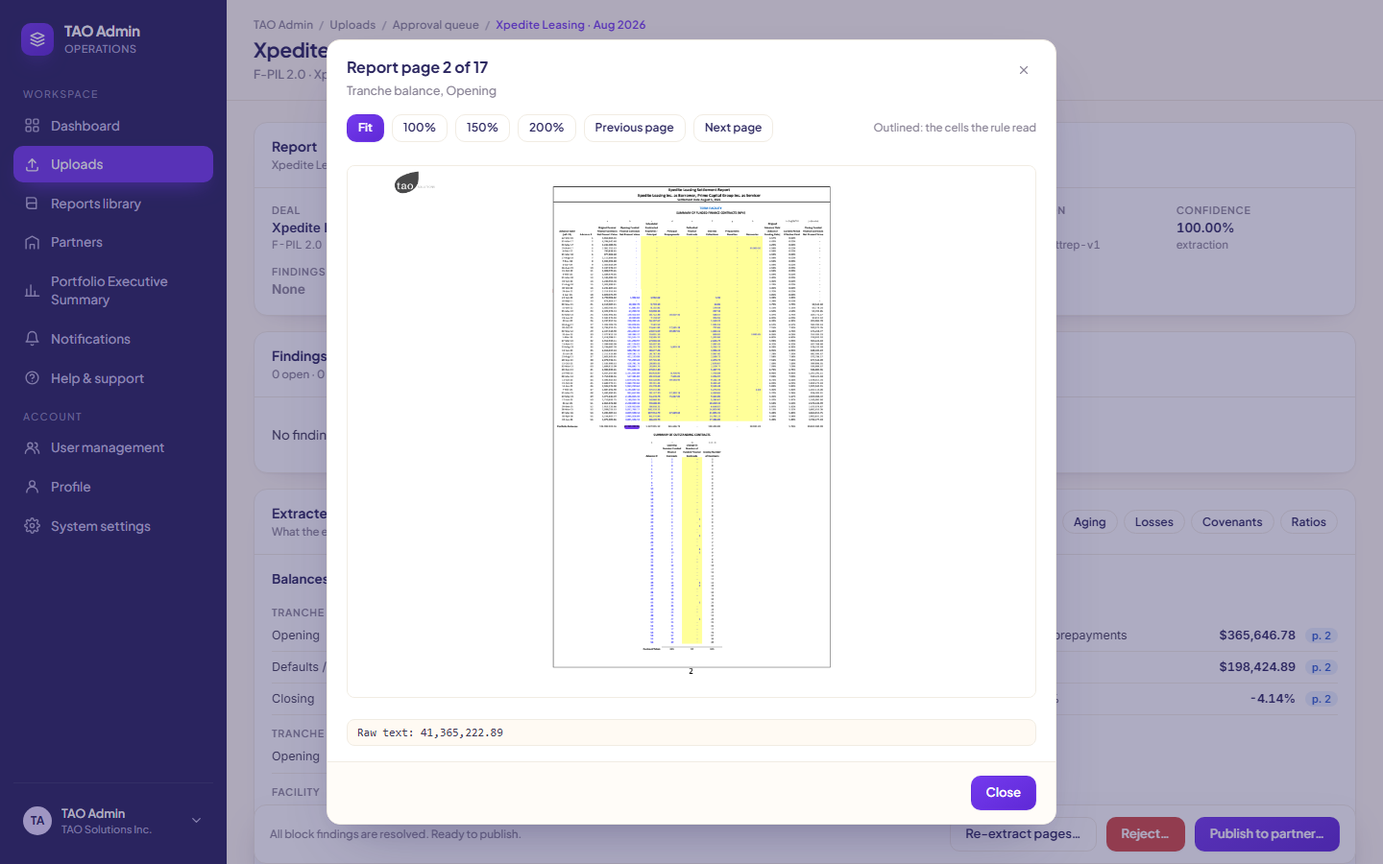
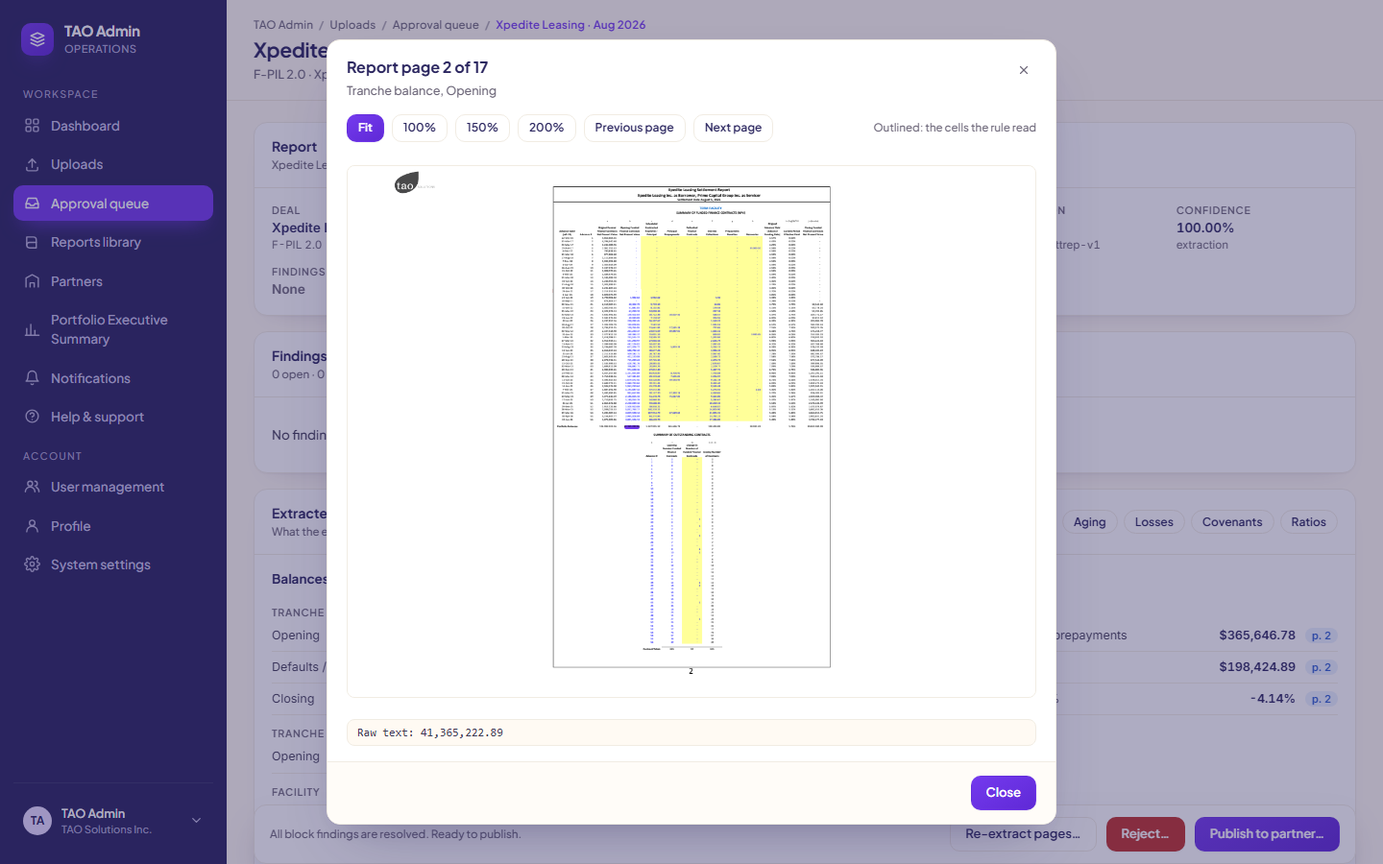
qa: docs/demo.md and screenshots for the wave-3 demo (re-issue step 7, Use ours, manager view), acceptance re-measured; requests and progress

diff --git a/docs/demo.md b/docs/demo.md
@@ -17,7 +17,7 @@ docker compose exec api python -m app.seed  # Git Bash: prefix MSYS_NO_PATHCONV=
 cd tests/e2e
 npm ci
 npx playwright install chromium
-npm run test:e2e                            # setup + the seven steps + negatives, about 8 minutes
+npm run test:e2e                            # setup + the seven steps + negatives, about 4 minutes
 npm run lighthouse                          # optional: accessibility on the four main pages, after test:e2e
 ```
 
@@ -37,14 +37,12 @@ cd tests/e2e && E2E_WEB_URL=http://localhost:15500 E2E_API_URL=http://localhost:
 
 **What the setup does.** `tests/e2e/setup/demo.setup.ts` checks the stack is up, seeded and fresh, builds the
 seeded-error PDF with the Lead's tool (`scripts/demo_data.py: seeded_moneda_aug`, one digit changed on page 2 of
-Moneda 202608), and publishes May–July for Moneda, Xpedite and Stride through the HTTP API, the way a previous
-month-end would have left the system. Xpedite's June and July reports revise earlier months (R11 restatements that
-the reference object also records); the setup accepts them as a reviewer would.
+Moneda 202608), and publishes seven months through the HTTP API, the way a previous month-end would have left the
+system: May–July for Moneda and Xpedite, July for Stride (the prior month step 6 checks). Xpedite's June and July
+reports revise earlier months (R11 restatements that the reference object also records); the setup accepts them as a
+reviewer would. `npm run report` opens the last HTML report.
 
-Other scripts: `npm run test:e2e:wave3` runs the same plus the wave-3 assertions (below); `npm run report` opens the
-last HTML report.
-
-## Journey 1 — a clean report, from upload to the investor portal
+## Journey 1 — a clean report, from upload to both partner portals
 
 ### Step 1. TAO Analyst uploads a SetRep
 
@@ -58,7 +56,7 @@ from the page header is Jul 2026, one month before the collection period (rule R
 
 ![Needs review](demo/01-upload-needs-review.png)
 
-The Approval queue lists it with its finding count ("No findings").
+The Approval queue (now in the sidebar) lists it with its finding count ("No findings").
 
 ![Approval queue](demo/01-approval-queue.png)
 
@@ -66,7 +64,7 @@ The Approval queue lists it with its finding count ("No findings").
 
 Switched to TAO Admin: Approval queue › Xpedite Leasing. No finding cards ("No findings. Every rule passed for this
 extraction."). Every extracted value carries its page link (`p. N`), or names the earlier publication it was carried
-from; 94 page links, 0 values without a source.
+from: 94 page links, 0 values without a source.
 
 ![Review report, clean](demo/02-review-clean.png)
 
@@ -74,14 +72,14 @@ A page link opens the page image at that value.
 
 ![Page viewer](demo/02-page-viewer.png)
 
-Publish to partner › Approve and publish. The status becomes Published, the Activity card and the Audit log show
+Publish to partner › Approve and publish. The status becomes Published; the Activity card and the Audit log show
 Approve and Publish by `tao_admin`.
 
 ![Publish dialog](demo/02-publish-dialog.png)
 ![Published](demo/02-published.png)
 ![Audit log](demo/02-audit-log.png)
 
-### Step 3. Investor Viewer sees the deal; the numbers match the shared dashboard
+### Step 3. Investor and Manager viewers see the deal; the numbers match the shared dashboard
 
 Switched to Investor · Viewer: Portfolio Executive Summary › F-PIL 2.0 › Open deal Xpedite Leasing.
 
@@ -94,11 +92,16 @@ published object and with `docs/dashboard-json/f-pil-2-0-xpedite-leasing.dashboa
 money difference $0.00; the tranche roll-forward matches to the cent. The deal offers four periods (2026-05 to
 2026-08).
 
-The Manager partner does not see F-PIL 2.0 today, so the same deal URL in the Manager portal shows "You don’t have
-access" and the API returns no data. Once programs are shared with both partners (wave 3), the manager sees the same
-numbers; that is asserted in `tests/e2e/wave3/`.
+Both partners share both programs, so the Manager · Viewer takes the same path in the Manager portal and sees the
+same 154 numbers, again with 0 mismatches.
 
-![Other partner, no access](demo/03-other-partner-no-access.png)
+![Manager deal page](demo/03-manager-deal-page.png)
+
+Behind it (`specs/03b-master-data.spec.ts`): both programs list investor and manager as partners, Partners is
+readable by TAO roles only (`/master/partners`, 403 for partner roles), and every covenant definition states its
+unit (fraction, ratio or currency).
+
+![Partners](demo/03b-partners.png)
 
 ## Journey 2 — a report with an error
 
@@ -119,7 +122,7 @@ finding is open. Resolve it before publishing.", and the API answers 409 `open_b
 ![Analyst read only](demo/04b-analyst-read-only.png)
 ![Publish blocked](demo/04b-publish-blocked.png)
 
-### Step 5. TAO Admin overrides with a reason and publishes
+### Step 5. TAO Admin overrides with a reason and publishes our value
 
 Use ours for R05, reason "servicer typo, confirmed by email", Save and re-run rules. The rules re-run, R05 shows
 "Used our value" with the reason, no block finding is open, Publish to partner › Approve and publish. The Audit log
@@ -129,10 +132,13 @@ shows the Override with its reason, then Approve (listing the override used) and
 ![R05 resolved](demo/05-r05-resolved.png)
 ![Audit log, override](demo/05-audit-override.png)
 
-Today the published closing stays the report's $15,019,971.52. When "Use ours" writes the chosen value into the
-published deal (wave 3), it becomes $15,020,071.52 with a `data_corrections` entry; asserted in `tests/e2e/wave3/`.
+"Use ours" changes what partners see. R05 carries `targets` (`/tranche_balance/closing` among them), the published
+Moneda 2026-08 closing is ours, $15,020,071.52, and the deal's `data_corrections` records the closing for 2026-08 as
+15,019,971.52 → 15,020,071.52 with the reason. The investor deal page prints $15,020,072.
 
-## Journey 3 — the next month and a regeneration
+![Deal page with our value](demo/05-deal-page-ours.png)
+
+## Journey 3 — the next month and a corrected re-issue
 
 ### Step 6. TAO Analyst uploads the following month
 
@@ -143,71 +149,69 @@ F-PIL 2.0 program dashboard now shows 3 deals for August 2026.
 ![Next month needs review](demo/06-next-month-needs-review.png)
 ![Program dashboard](demo/06-program-dashboard.png)
 
-Not shown: "the covenant status change raises an in-app toast". None of the three F-PIL reference objects has a
-covenant status change from July to August, and the app has no covenant-change toast (filed in `docs/requests.md`).
+(The build plan's "covenant status change raises an in-app toast" was dropped from the demo on 2026-11-03.)
 
-### Step 7. TAO Admin regenerates the dashboard
+### Step 7. TAO Admin re-issues month one, publishes it and regenerates the dashboard
 
-The script says to re-upload month one first. The API refuses a second upload for a published deal and period
-(409 `already_published`, R12: "reject or regenerate instead"), and the Upload report page says so.
+Upload report, Moneda Capital Corp. 2026-05, the May PDF again. The period is published, so the page asks "Upload
+this file as a corrected re-issue?"; Upload as corrected re-issue.
 
-![Re-upload refused](demo/07-reupload-refused.png)
+![Already published](demo/07-already-published-confirm.png)
 
-Reports library (12 published reports) › Regenerate dashboard…, program F-PIL 2.0 › Regenerate: "F-PIL 2.0: rebuilt
-from 12 published reports." The roll-up totals are unchanged (nothing changed underneath) and the Audit log records
-a manual Regenerate by `tao_admin`.
+The re-issue reaches needs review, marked "Corrected re-issue". R12 blocks with "Corrected re-issue: replaces the
+2026-05 report published …" and names the later published months (2026-06, 2026-07, 2026-08) that still carry the
+earlier May figures; the review page shows the same in a banner.
+
+![Re-issue needs review](demo/07-reissue-needs-review.png)
+![Re-issue banner](demo/07-reissue-banner.png)
+
+Accept as replacement for R12, with a reason, re-runs the rules with no block open; Publish to partner › Approve and
+publish. The banner now reads "It replaced the report published …". The publication points at the re-issue, the
+old upload shows `replaced_by_upload_id` and a "Replaced by a corrected re-issue" banner linking to the new one, and
+the audit log carries the upload (`replaces_upload_id`), the override with its reason, and the publish
+(`replaced_upload_id`).
+
+![Re-issue published](demo/07-reissue-published.png)
+![Old upload replaced](demo/07-old-upload-replaced.png)
+
+Reports library › Regenerate dashboard…, program F-PIL 2.0 › Regenerate: "F-PIL 2.0: rebuilt from N published
+reports." The roll-up totals are unchanged (the re-issue is the same real PDF) and the Audit log records a manual
+Regenerate by `tao_admin`. The investor deal page for May 2026 now serves the re-issue.
 
 ![Reports library](demo/07-reports-library.png)
-![Regenerate dialog](demo/07-regenerate-dialog.png)
-![Audit log, regenerate](demo/07-audit-regenerate.png)
+![Audit log, re-issue](demo/07-audit-reissue.png)
+![Partner deal page, May](demo/07-partner-deal-may.png)
 
 ## Negative tests (tenancy and failure)
 
-- A partner sees only its own programs. For every program a partner does not own (today: both programs for the
-  Manager), the program, dashboard and deal URLs show "You don’t have access" and the API returns 403 / 404 with no
-  deal data. A partner role that types the other partner's portal URL is sent back to its own portal, and claiming
-  the other partner in `X-Partner` is refused (403 `bad_partner`).
+- Both partners share both programs, so no program is hidden from either partner today; the test still tries every
+  program a partner does not own (none) and checks the portfolio lists only owned programs. A partner role that types
+  the other partner's portal URL is sent back to its own portal. Claiming the other partner in `X-Partner` is refused
+  (403 `bad_partner`), and so are an unknown partner (`X-Partner: nobody`) and no `X-Partner` at all, on the
+  portfolio, program and deal routes, with no deal data in the body.
 - Partner roles get 403 on `/uploads`, `/audit`, `/master/*` and regenerate, and `/admin` URLs send them back to
-  their portal. An analyst gets "You don’t have access" on Partners and 403 on `/audit`.
+  their portal. An analyst gets "You don’t have access" on the Audit log page and 403 on `/audit` (Partners is
+  read-only for analysts).
 - A blank PDF ends in `extraction_failed`; the page says "Extraction failed. Check the audit log for the reason,
   then upload the file again." and the audit reason reads "page 1 has no text layer; cover block not found (no page
   has text: scanned or blank PDF, OCR fallback not built yet)". The test rejects it afterwards.
 
-![Manager, no access](demo/08-manager-no-access.png)
 ![Blank PDF](demo/08-blank-pdf-failed.png)
 
 ## Acceptance (build plan), measured 2026-11-03
 
-Measured on the QA stack (Windows 11, Docker Desktop) from `docker compose down -v`, with `npm run test:e2e`.
+Two runs on the QA stack (Windows 11, Docker Desktop), each from `docker compose down -v`, then `up -d` (images
+built), seed, `npm run test:e2e`; both 18 of 18 green.
 
 | Criterion | Pass | Measured |
 | --- | --- | --- |
-| Both sample SetReps extract with no null required field | Yes / No | Yes for the F-PIL template: all 12 F-PIL PDFs reach needs review (9 in setup, 3 in the steps); the schema validation is the Extraction agent's suite. No MOVE Trust SetRep exists to test. |
+| Both sample SetReps extract with no null required field | Yes / No | Yes for the F-PIL template: every F-PIL PDF the demo uploads reaches needs review; the schema validation is the Extraction agent's suite. No MOVE Trust SetRep exists to test. |
 | Rules 1–18 each have a passing and a failing fixture and run in under 2 s | Yes / No | Pass and fail fixtures for R01–R15, R17–R19 under `rules/tests/fixtures/`; R16 (program-level SetRep) has none because no such SetRep exists. Timing is the Rules suite's `test_reference_findings_validate_and_run_fast`. |
-| Published deal page equals the shared dashboard for the same deal and period | Every metric within $1 / 0.01 pp | Yes. Xpedite Leasing 2026-08: 154 numbers on the page, 0 mismatches against the published object and the reference, largest money difference $0.00. |
-| A partner role cannot reach another partner's data by URL or API | Verified by test | Yes: `specs/08-negatives.spec.ts` (4 tests) and step 3. |
-| Time from upload to needs review on a 20-page SetRep | Under 3 minutes | Yes. 6–32 s per report (13–17 pages): Stride 6–16 s, Moneda 18–29 s, Xpedite 28–32 s; the seeded Moneda with its second pass 29 s. |
+| Published deal page equals the shared dashboard for the same deal and period | Every metric within $1 / 0.01 pp | Yes. Xpedite Leasing 2026-08: 154 numbers on the page, 0 mismatches against the published object and the reference, largest money difference $0.00, for the investor and the manager. |
+| A partner role cannot reach another partner's data by URL or API | Verified by test | Yes: `specs/08-negatives.spec.ts` (4 tests). With both programs shared, this rests on the X-Partner checks (other, unknown, missing partner) and the portal redirect. |
+| Time from upload to needs review on a 20-page SetRep | Under 3 minutes | Yes. 4–15 s per report (13–17 pages) across both runs: Stride 4–7 s, Moneda 5–11 s, Xpedite 9–15 s; the seeded Moneda with its second pass 7–11 s. |
 | Every number on the Review report has a page reference | 100% | Yes. Xpedite 2026-08: 94 page links, 8 values carried from the July publication (labelled so), 0 "no source"; 27 of 27 key-value rows referenced. |
-| Lighthouse accessibility on the four main pages | 90 or higher | Yes. TAO Admin dashboard 96, Review report 93, Portfolio executive summary 96, Deal page 96. Failures: colour contrast (all four), and on Review report `label-content-name-mismatch` (page links) and `target-size`. |
-| Full demo from `docker compose up` on a clean Windows machine | Under 10 minutes including seed | No, 11 min 17 s: stack build, start and seed 3 min 18 s; tests 8 min (setup publishing May–July for three deals 3 min 24 s, the seven steps and negatives about 4 min). Web dependencies were already in `web/node_modules`, so a first start adds the container's `npm install`. With images already built, start and seed took 1 min 18 s, about 9 min 20 s in all. |
-
-**Known issue (open).** One of two full clean runs failed at step 4: two page images rendered at the same moment
-crashed the API server process (PDFium is not thread-safe), and every later test timed out. Restart the API
-(`docker compose restart api`) and rerun the remaining specs with `npx playwright test specs/04b specs/05 specs/06
-specs/07 specs/08 --project=demo --no-deps`. Filed to Data & API in `docs/requests.md`.
+| Lighthouse accessibility on the four main pages | 90 or higher | Yes. TAO Admin dashboard 100, Review report 96, Portfolio executive summary 100, Deal page 100. The one failure is colour contrast on the Review report's resolved finding card (layer and value labels, the Block pill, our value). |
+| Full demo from `docker compose up` on a clean Windows machine | Under 10 minutes including seed | Yes. Run 1: 5 min 16 s (start and seed 55 s, tests 4 min 21 s). Run 2: 4 min 43 s (50 s, 3 min 53 s). Images were already built and web dependencies already in `web/node_modules`; a first `up --build` added about 2 minutes in earlier runs. |
 
 Per-report extraction times are written to `tests/e2e/.cache/measurements.jsonl` on every run.
-
-## Wave-3 assertions (`tests/e2e/wave3/`, `npm run test:e2e:wave3`)
-
-Written against the wave-3 contract and expected to fail until that work is merged:
-
-- Both programs list investor and manager in `partner_slugs`; `GET /master/partners` answers 200 for TAO roles and
-  403 for partners.
-- Every covenant definition carries `unit` (fraction, ratio, currency).
-- The Manager Viewer sees F-PIL 2.0 and the same Xpedite 2026-08 numbers as the investor, matching the reference.
-- After step 5, R05 carries `targets`, the published Moneda 2026-08 closing is $15,020,071.52, the deal page shows
-  $15,020,072, and `data_corrections` holds old 15,019,971.52 → new 15,020,071.52 with the reason.
-
-When change (1) lands, the Manager no-access check in step 3 and in the tenancy test has no hidden program to try and
-records that as an annotation instead of failing.

diff --git a/docs/requests.md b/docs/requests.md
@@ -334,7 +334,7 @@ The Lead reads this at every merge.
   by field name (…_pct / utilization → %, …contracts → count, …_ratio → x, else $). Non-numeric values print as text.
 
 ## QA & Demo
-- 2026-11-03 — to Lead (README, please apply): add an "End-to-end demo tests" section to the root `README.md`:
+- RESOLVED in integration/wave3 (README section applied) — 2026-11-03 — to Lead (README, please apply): add an "End-to-end demo tests" section to the root `README.md`:
   > Prerequisites: Docker Desktop, Node 20+, Python 3.11+ with `pip install httpx pypdf`, the 12 SetRep PDFs in
   > `data/samples/`. From the repo root: `cp .env.example .env` (fill in `ANTHROPIC_API_KEY`), `docker compose up -d
   > --build`, `docker compose exec api python -m app.seed` (Git Bash: prefix `MSYS_NO_PATHCONV=1` if a path argument
@@ -342,29 +342,29 @@ The Lead reads this at every merge.
   > fresh database; reset with `docker compose down -v` and repeat the up and seed. `npm run lighthouse` scores the four
   > main pages after a run. Point the tests at another stack with `E2E_WEB_URL` / `E2E_API_URL`. Walkthrough and
   > acceptance results: `docs/demo.md`.
-- 2026-11-03 — to Lead (demo script, step 7): "Regenerate dashboard after re-uploading month one" cannot be run.
+- RESOLVED in integration/wave3 (Matt: corrected re-issues with replace=true; step 7 rewritten as re-issue → accept as replacement → publish → regenerate in `specs/07-reissue-regenerate.spec.ts`) — 2026-11-03 — to Lead (demo script, step 7): "Regenerate dashboard after re-uploading month one" cannot be run.
   `POST /uploads` returns 409 `already_published` for a published deal + period (`api/app/main.py: create_upload`),
   so the R12 replace branch in `approve` (`pub is not None`) is unreachable, and a published upload cannot be rejected
   (`bad_state`). Either allow a replacement upload of a published period (R12) or change step 7 to regenerate only.
   Test: `specs/07-regenerate.spec.ts` asserts today's refusal, then regenerates; flip it when the decision is made.
-- 2026-11-03 — to Lead / UI owners (demo script, step 6): "the covenant status change raises an in-app toast" has no
+- RESOLVED (Matt: toast dropped; clause removed from the spec and docs/demo.md) — 2026-11-03 — to Lead / UI owners (demo script, step 6): "the covenant status change raises an in-app toast" has no
   implementation (no covenant-change toast in `web/src`) and no data: all three F-PIL reference objects have
   `prior_covenants` equal to `covenants` for Jul → Aug, and `deals_with_escalations` is empty after step 6. Test:
   `specs/06-next-month.spec.ts` records it as an annotation. Needs a decision whether to build it (wave 3 per the risk
   table) or drop the clause.
-- 2026-11-03 — to Design System (Lighthouse, all four main pages, scores 93–96 so the gate passes): colour contrast
+- RESOLVED in integration/wave3 (contrast fixes; dashboard, portfolio and deal page now 100) — 2026-11-03 — to Design System (Lighthouse, all four main pages, scores 93–96 so the gate passes): colour contrast
   fails on the sidebar group labels (`.navlabel` #8c86b3 on #2a255f, 4.04:1 at 7.9 pt), muted text `--text-3`-style
   #8b8597 on #fffaf3 / #ffffff (3.42–3.55:1: breadcrumbs, `.ds-pagehead__sub`, `.ds-kpi__label`, `.ds-kpi__context`,
   `.ds-card__sub`), and the OK / WATCH pills (#1f9d6b on #e7f5ee 3.06:1, #bd7a18 on #fbf0da 3.11:1). Run:
   `cd tests/e2e && npm run lighthouse` (reports in `tests/e2e/.cache/lighthouse/`). Likely covered by parallel change (3).
-- 2026-11-03 — to UI-Review (Lighthouse, Review report 93): `label-content-name-mismatch` on every page link
+- RESOLVED in integration/wave3 (no longer reported by Lighthouse) — 2026-11-03 — to UI-Review (Lighthouse, Review report 93): `label-content-name-mismatch` on every page link
   (`button.rv-srclink`, visible text "p. 2", accessible name "Tranche balance, Opening: open source page 2"; start the
   name with the visible text, e.g. "p. 2: Tranche balance, Opening") and `target-size` (the "p. N" buttons are under
   24 px). Same run as above.
-- 2026-11-03 — to Design System / UI-Review (navigation): the Approval queue (`/admin/uploads/queue`) has no sidebar
+- RESOLVED in integration/wave3 (Approval queue nav entry) — 2026-11-03 — to Design System / UI-Review (navigation): the Approval queue (`/admin/uploads/queue`) has no sidebar
   entry and no link from Uploads or the Dashboard; the demo reaches it by URL or through "Open in approval queue" after
   an upload. Suggest a Queue tile link on Uploads or a nav entry. Tests use the URL (`specs/01`, `specs/02`).
-- 2026-11-03 — to Lead (tenancy after wave 3): once both programs are shared with investor and manager, no program is
+- RESOLVED (Lead: no invented programs; `specs/08-negatives.spec.ts` adds unknown and missing X-Partner on the published routes beside the spoof and the redirect) — 2026-11-03 — to Lead (tenancy after wave 3): once both programs are shared with investor and manager, no program is
   hidden from either partner, so "a partner cannot reach another partner's data" has nothing left to try beyond the
   `X-Partner` spoof and the shell redirect (`specs/08-negatives.spec.ts` then records "hidden none"). Suggest a seeded
   partner-only program (or a third partner) so the negative test stays meaningful.
@@ -372,11 +372,11 @@ The Lead reads this at every merge.
   assignment is `tests/e2e/` and `docs/demo.md` only, so I did not create it. Reset is `docker compose down -v`, up,
   seed; the seeded-error PDF comes from `scripts/demo_data.py: seeded_moneda_aug` (the e2e setup calls it). If you want
   a single reset script in `scripts/`, say so and I will write it, or take the commands from `docs/demo.md` › Reset.
-- 2026-11-03 — to Lead (acceptance): "full demo under 10 minutes including seed" measured 11 min 17 s from
+- RESOLVED (setup trimmed to 7 history uploads; full demo 5 min 16 s and 4 min 43 s from `down -v`) — 2026-11-03 — to Lead (acceptance): "full demo under 10 minutes including seed" measured 11 min 17 s from
   `down -v` (build + start + seed 3 min 18 s, tests 8 min of which 3 min 24 s is publishing May–July for three deals
   through the API). The extraction runs one upload at a time; the setup could skip Stride May–Jul (−45 s) if step 6
   used a deal already in the history, or the worker could take jobs for different deals in parallel.
-- 2026-11-03 — to Data & API (BUG, blocks a green demo intermittently): concurrent requests for not-yet-rendered page
+- RESOLVED by api 35a3155 (process-wide PDFium lock, atomic PNG writes; two clean runs green) — 2026-11-03 — to Data & API (BUG, blocks a green demo intermittently): concurrent requests for not-yet-rendered page
   images kill the API server process. `GET /uploads/{id}/pages/{n}.png` renders with pypdfium2 inside FastAPI's thread
   pool (`api/app/main.py: page_image`); PDFium is not thread-safe, the uvicorn server process dies without a log line,
   and with `--reload` the reloader stays up but nothing serves :8000 (every request times out until `docker restart`).
@@ -385,3 +385,16 @@ The Lead reads this at every merge.
   .../uploads/<id>/pages/{3..8}.png` (two per page): 10 answer 200, the rest never answer and `/health` times out.
   Suggested fix: a process-wide lock around the PDFium open/render/save (or render all pages once in the worker after
   extraction), and write the PNG to a temp name then rename so two requests for the same page do not race.
+- 2026-11-03 — to Design System (Lighthouse, Review report 96, gate passes): colour contrast on a resolved finding card
+  (`.ds-finding--resolved`): `.ds-finding__layer` and `.ds-finding__vlabel` #8e8997 on #ffffff 3.4:1, the small Block
+  pill #cc605c on #fbeae8 3.34:1, and our value `.ds-finding__v--ours` #8b63e1 on #ffffff 4.22:1. Looks like the
+  resolved-state dimming pushes them below 4.5:1. Page: Review report of the published seeded Moneda 2026-08
+  (`npm run lighthouse`, report in `tests/e2e/.cache/lighthouse/review-report.html`).
+- 2026-11-03 — to Rules / UI-Review (minor): the R12 re-issue message prints the raw timestamp ("published
+  2026-11-04T02:00:46.429157+00:00") and the card shows the period as REPORT "2026-05" with OURS and DIFFERENCE "—";
+  the banner above it formats the same time as "2026-11-03 21:00". Suggest a date-only or formatted time in the message
+  and no ours / report row for R12.
+- 2026-11-03 — to Lead (docs/demo, cleanup): five screenshots are no longer produced or referenced by docs/demo.md:
+  `03-other-partner-no-access.png`, `07-audit-regenerate.png`, `07-regenerate-dialog.png`, `07-reupload-refused.png`,
+  `08-manager-no-access.png` (they show pre-wave-3 behaviour). I did not delete them (no-delete rule); remove them at
+  merge if you agree.

diff --git a/docs/progress.md b/docs/progress.md
@@ -372,3 +372,11 @@ Append an entry when a work package lands. Newest first.
   reference-data tests, web shell with role switcher and every portal-map page routed, seed data, agent briefs.
   Findings from real data: F-PIL and six MOVE Trust deals close their roll-forward to the cent; three MOVE Trust
   deals do not (see rules tests); two aging conventions exist.
+- 2026-11-03 — QA & Demo, final round on integration/wave3: wave-3 assertions folded into the demo (step 3 manager sees
+  the same Xpedite numbers; `specs/03b-master-data.spec.ts` partners and covenant unit; step 5 Use ours publishes
+  15,020,071.52 with data_corrections), step 7 rewritten as a corrected re-issue of Moneda 2026-05 (confirm → R12 →
+  Accept as replacement → publish → replaced_by → regenerate → partner page), toast clause removed, tenancy negatives
+  add unknown / missing X-Partner, setup publishes 7 history months instead of 9. Two clean runs from `down -v`:
+  18/18 and 18/18, 5 min 16 s and 4 min 43 s including start and seed. Lighthouse 100 / 96 / 100 / 100. docs/demo.md
+  and its screenshots are current. Needs: see `docs/requests.md` › QA & Demo (resolved-card contrast, R12 message
+  timestamp, five stale screenshots).
